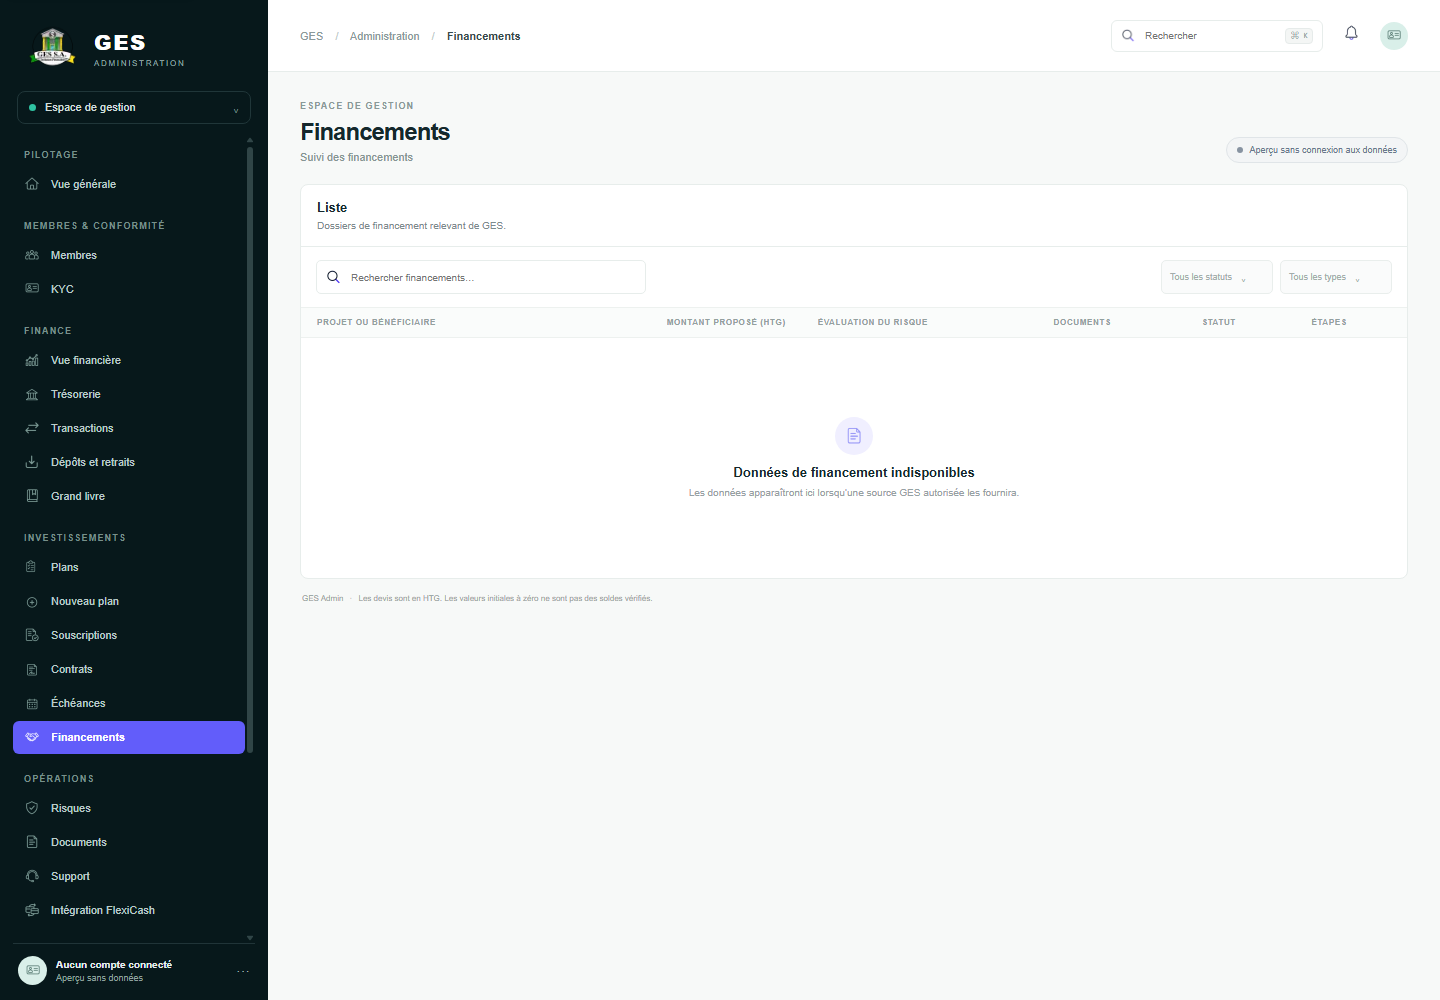
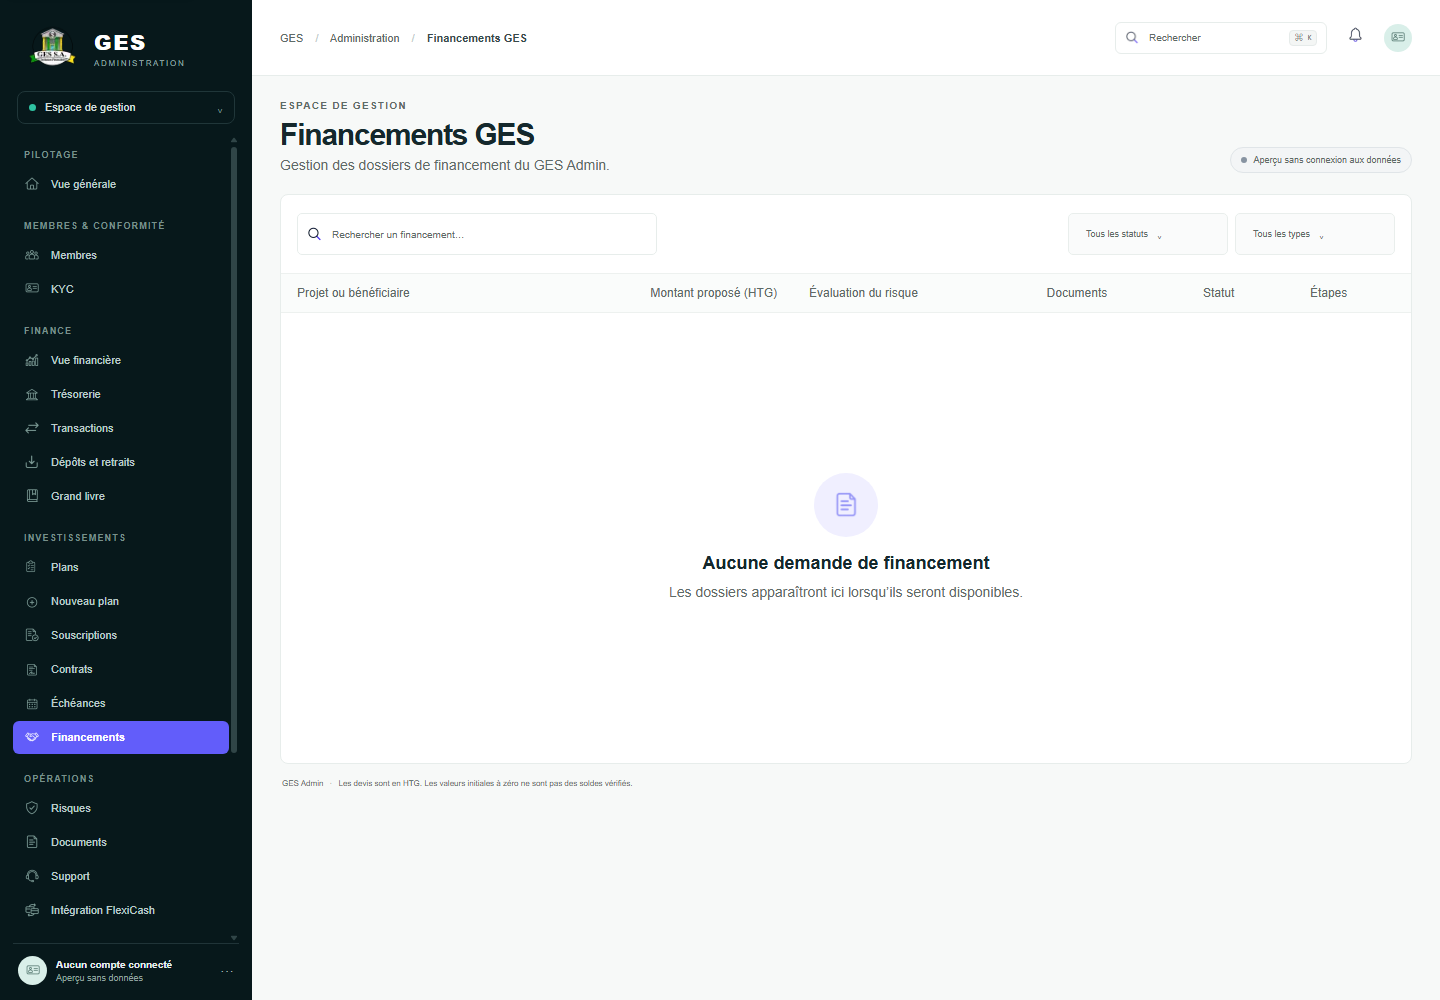
Align financing list with MF-21

diff --git a/components/admin-shell.tsx b/components/admin-shell.tsx
@@ -25,7 +25,7 @@ const pages: Record<string, { title: string; subtitle: string }> = {
   membres: { title: "Membres", subtitle: "Consultez et gérez les comptes membres." }, kyc: { title: "Conformité KYC", subtitle: "Vérification des dossiers" },
   "vue-financiere": { title: "Vue financière générale", subtitle: "Aperçu de la position financière de GES Admin en HTG et USD." }, tresorerie: { title: "Trésorerie", subtitle: "Positions de trésorerie" }, transactions: { title: "Transactions", subtitle: "Consultez et gérez l’ensemble des transactions." },
   "depots-retraits": { title: "Dépôts et retraits", subtitle: "Suivi des mouvements entrants et sortants" }, "grand-livre": { title: "Grand livre et rapprochement", subtitle: "Consultation du grand livre comptable et rapprochement des soldes." }, plans: { title: "Catalogue des plans d’investissement", subtitle: "Vue d’ensemble des plans d’investissement autorisés sur GES Admin." },
-  souscriptions: { title: "Souscriptions", subtitle: "Vue d’ensemble des souscriptions effectuées sur GES Admin." }, contrats: { title: "Contrats d’investissement", subtitle: "Liste des contrats d’investissement enregistrés dans GES Admin." }, echeances: { title: "Échéances et distributions", subtitle: "Suivi des échéances et des distributions de capital et d’intérêts." }, financements: { title: "Financements", subtitle: "Suivi des financements" }, "plans/nouveau": { title: "Nouveau plan d’investissement", subtitle: "Créer un nouveau plan d’investissement (brouillon)." },
+  souscriptions: { title: "Souscriptions", subtitle: "Vue d’ensemble des souscriptions effectuées sur GES Admin." }, contrats: { title: "Contrats d’investissement", subtitle: "Liste des contrats d’investissement enregistrés dans GES Admin." }, echeances: { title: "Échéances et distributions", subtitle: "Suivi des échéances et des distributions de capital et d’intérêts." }, financements: { title: "Financements GES", subtitle: "Gestion des dossiers de financement du GES Admin." }, "plans/nouveau": { title: "Nouveau plan d’investissement", subtitle: "Créer un nouveau plan d’investissement (brouillon)." },
   risques: { title: "Risques", subtitle: "Suivi des alertes et contrôles" }, documents: { title: "Documents", subtitle: "Bibliothèque documentaire" }, support: { title: "Support", subtitle: "Demandes d’assistance" }, rapports: { title: "Rapports", subtitle: "Rapports de gestion" }, equipe: { title: "Équipe", subtitle: "Accès et rôles de l’équipe" }, audit: { title: "Audit", subtitle: "Journal des actions administratives" }, parametres: { title: "Paramètres", subtitle: "Configuration de l’espace" }, notifications: { title: "Notifications", subtitle: "Centre de notifications administratives" }, "roles-permissions": { title: "Rôles et permissions", subtitle: "Les permissions effectives sont contrôlées côté serveur" }, "integrations-flexicash": { title: "Intégration FlexiCash", subtitle: "Les espaces GES et FlexiCash restent séparés" },
 };
 

diff --git a/components/module-workspace.tsx b/components/module-workspace.tsx
@@ -23,7 +23,7 @@ const pages: Record<string, ModulePage> = {
   plans: { description: "Catalogue des plans d’investissement autorisés sur GES Admin.", filters: ["Tous les statuts", "Trier par"], columns: ["PLAN", "DEVISE", "RENDEMENT", "DURÉE", "STATUT", "ACTIONS"], empty: "Données des plans indisponibles" },
   souscriptions: { description: "Consultez les souscriptions retournées par une source GES autorisée.", searchPlaceholder: "Rechercher une souscription…", filters: ["Tous les statuts", "Tous les plans"], columns: ["Date", "Plan", "Membre", "Montant investi (HTG)", "Statut", "Actions"], empty: "Données de souscription indisponibles" },
   contrats: { description: "Registre des contrats d’investissement retournés par une source GES autorisée.", searchPlaceholder: "Rechercher un contrat…", filters: ["Tous les statuts", "Tous les plans", "Sélectionner une période"], columns: ["Contrat", "Membre", "Plan", "Principal (HTG)", "Date de début", "Échéance", "Statut", "Documents"], empty: "Aucun contrat à afficher" },
-  financements: { description: "Dossiers de financement relevant de GES.", filters: ["Tous les statuts", "Tous les types"], columns: ["PROJET OU BÉNÉFICIAIRE", "MONTANT PROPOSÉ (HTG)", "ÉVALUATION DU RISQUE", "DOCUMENTS", "STATUT", "ÉTAPES"], empty: "Données de financement indisponibles" },
+  financements: { description: "Dossiers de financement relevant de GES.", searchPlaceholder: "Rechercher un financement…", filters: ["Tous les statuts", "Tous les types"], columns: ["Projet ou bénéficiaire", "Montant proposé (HTG)", "Évaluation du risque", "Documents", "Statut", "Étapes"], empty: "Aucune demande de financement", emptyDescription: "Les dossiers apparaîtront ici lorsqu’ils seront disponibles." },
   risques: { description: "Surveillez les risques et alertes disponibles pour GES.", filters: ["Toutes les catégories", "Toutes les sévérités", "Tous les statuts"], columns: ["SÉVÉRITÉ", "CATÉGORIE", "ENTITÉ GES", "ANALYSTE ASSIGNÉ", "STATUT", "ACTIONS"], empty: "Données de risque indisponibles" },
   documents: { description: "Documents disponibles dans les espaces GES autorisés.", filters: ["Tous les types"], columns: ["DOCUMENT", "CATÉGORIE", "LIÉ À", "MODIFIÉ LE", "ÉTAT"], empty: "Données documentaires indisponibles" },
   support: { description: "Demandes d’assistance GES disponibles.", filters: ["Tous les statuts", "Toutes les catégories", "Toutes les priorités"], columns: ["SUJET", "MEMBRE", "CATÉGORIE", "PRIORITÉ", "STATUT", "DERNIÈRE MISE À JOUR", "ACTIONS"], empty: "Données d’assistance indisponibles" },

diff --git a/design/project-status.md b/design/project-status.md
@@ -59,3 +59,5 @@ Revue MF-18 (29 octobre 2026) : sous-titre, recherche, filtres (dont icone de pe
 Revue MF-19 (29 octobre 2026) : retour avant le titre; conditions versionnees, huit valeurs, restrictions, documents et evenements affiches comme indisponibles sans contrat selectionne. Aucun terme financier, date ou evenement fictif. Principal identifie en HTG. Captures desktop/mobile; Chrome confirme le titre et aucune largeur de page superieure au viewport (1440/390 px).
 
 Revue MF-20 (29 octobre 2026) : calendrier sans jour numerote ni date fictive, controles de periode desactives, liste des echeances distincte et etat vide clarifie. Capital a distribuer et interets a distribuer restent a 0 HTG, marques comme valeurs initiales a confirmer. Chrome confirme l'etat vide et aucune largeur de page superieure au viewport (1440/390 px).
+
+Revue MF-21 (29 octobre 2026) : titre/sous-titre, recherche, filtres et colonnes aligns sur la reference corrigee v2; Financements reste l'item actif. Liste vide sans projet, personne, somme, risque ni statut fictif; le montant propose est libelle HTG. Captures desktop/mobile confirment l'etat vide et aucune largeur de page superieure au viewport (1440/390 px).

diff --git a/design/qa/README.md b/design/qa/README.md
@@ -157,3 +157,5 @@ Captures MF-19 : admin-contrats-dossier-1440x1000.png et admin-contrats-dossier-
 Captures MF-20 : admin-echeances-1440x1000.png et admin-echeances-390x844.png. Les deux valeurs financieres sont 0 HTG, marquees valeur initiale; calendrier et liste restent sans date, echeance ni mouvement fictif. La periode n'est pas selectionnee et ses commandes sont desactivees.
 
 Le controle hasUnavailableState de capture-route.cjs reconnait aussi les libelles explicites du catalogue vide (ex. aucun contrat/aucune echeance a afficher), et pas uniquement le mot Donnees.
+
+Captures MF-21 : admin-financements-1440x1000.png et admin-financements-390x844.png. Recherche et filtres restent neutres; aucun dossier de financement fictif. Montant propose identifie en HTG.
